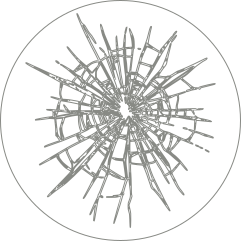
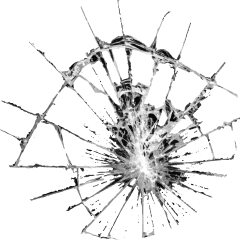
10 crystales de pánico [Fri-02-20 14:56:20.16]

diff --git a/FuelFlow_Instrumento.html b/FuelFlow_Instrumento.html
@@ -20,7 +20,7 @@
     <!-- Front -->
     <img class="ff-front" id="ff_front" src="https://claudio-arz.github.io/AeroDeck-HTML/Images/FuelFlow/FuelFlow_Frente.png" 
     alt="Front Fuel Flow">
-    <img class="brokenCrystal01" id="ff_broken_crystal01" src="https://claudio-arz.github.io/AeroDeck-HTML/Images/Crystals/BrokenCrystal01.png" 
+    <img class="brokenCrystal01" id="ff_broken_crystal_fire" src="https://claudio-arz.github.io/AeroDeck-HTML/Images/Crystals/BrokenCrystalFire.gif" 
     alt="Broken Crystal Fuel Flow">
 
     <div id="ff-value" class="instrument-center-label">--</div>

diff --git a/JS/functions_FuelFlow.js b/JS/functions_FuelFlow.js
@@ -135,7 +135,7 @@ function fuelFlowToAngle(fuelFlow) {
 
 // Alterna la visibilidad del cristal roto en el instrumento Fuel Flow
 function toggleFuelFlowBrokenCrystal() {
-  const crystal = document.getElementById('ff_broken_crystal01');
+  const crystal = document.getElementById('ff_broken_crystal_fire');
   if (crystal) {
     crystal.classList.toggle('visible');
   }
